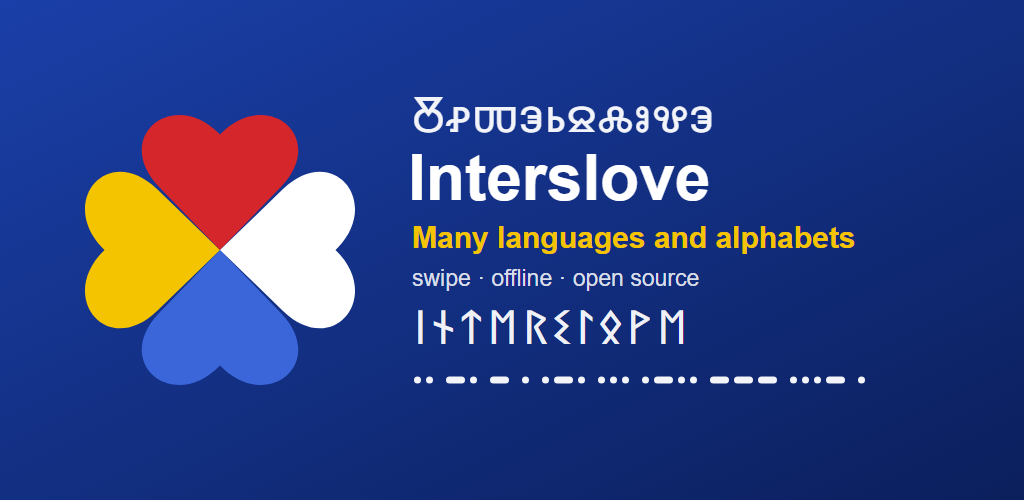
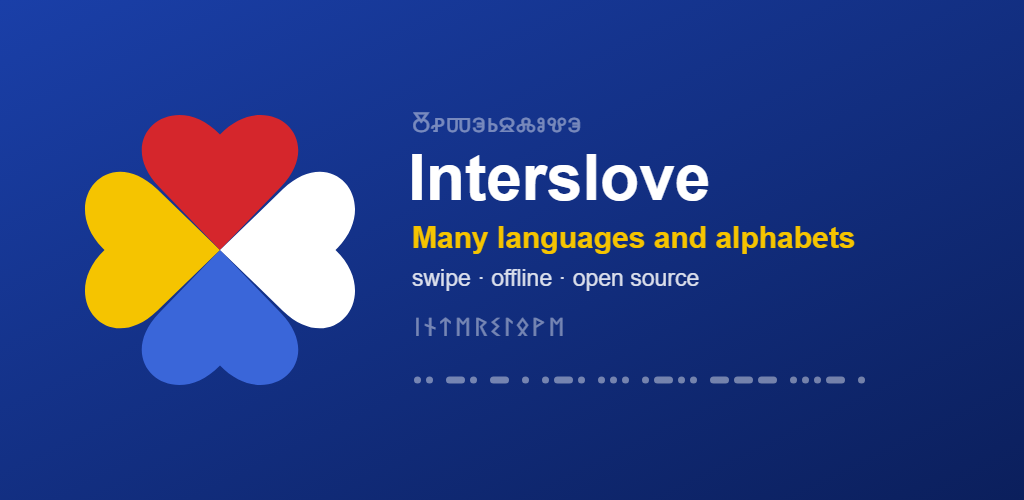
Brand: feature graphic with the decor layer

diff --git a/brand/build_decor.py b/brand/build_decor.py
@@ -1,0 +1,51 @@
+"""Inline brand/src/decor.svg into the store graphic and render it (Windows, Chrome headless).
+
+    python -X utf8 brand/build_decor.py <out.svg> <out.png>
+
+decor.svg is the ONE source of the decor layer (Glagolitic, runes, Morse: shape, size, colour, opacity).
+feature_graphic.svg keeps only the layout; its own decor elements are replaced by the decor groups,
+placed at the positions below. Text is rendered without subpixel (LCD) antialiasing.
+Refuses to overwrite existing outputs.
+"""
+import os, re, subprocess, sys, tempfile
+from PIL import Image
+
+HERE = os.path.dirname(os.path.abspath(__file__))
+CHROME = r'C:/Program Files/Google/Chrome/Application/chrome.exe'
+# where each decor group sits in the store graphic (x, y of the group origin inside the 1024x500 band)
+PLACE = {'decor-glag': (412, 132), 'decor-runy': (414, 336), 'decor-morse': (414, 376.5)}
+
+out_svg, out_png = sys.argv[1], sys.argv[2]
+for p in (out_svg, out_png):
+    if os.path.exists(p):
+        sys.exit(f'{p} exists - pick a new version name')
+
+decor = open(os.path.join(HERE, 'src', 'decor.svg'), encoding='utf-8').read()
+fg = open(os.path.join(HERE, 'src', 'feature_graphic.svg'), encoding='utf-8').read()
+
+style = re.search(r'<g id="decor"([^>]*)>', decor).group(1)
+groups = []
+for gid, (x, y) in PLACE.items():
+    m = re.search(rf'<g id="{gid}" transform="[^"]*">(.*?)</g>', decor, re.S)
+    groups.append(f'    <g id="{gid}" transform="translate({x} {y})">{m.group(1)}</g>')
+block = f'    <!-- decor layer: inlined from brand/src/decor.svg -->\n    <g{style}>\n' + '\n'.join(groups) + '\n    </g>\n'
+
+# drop a decor block inlined by an earlier run, then the graphic's own decor (Segoe UI Historic texts, Morse dots)
+fg = re.sub(r'\s*<!-- decor layer: inlined from brand/src/decor.svg -->\s*<g[^>]*>.*?</g>\s*</g>\n', '\n', fg, flags=re.S)
+# and drop the graphic's own decor: Segoe UI Historic texts and the Morse dots
+fg2 = re.sub(r'\s*<text[^>]*Segoe UI Historic[^>]*>.*?</text>', '', fg)
+fg2 = re.sub(r'\s*<rect x="\d+(\.\d+)?" y="376\.5"[^>]*/>', '', fg2)
+assert 'Segoe UI Historic' not in fg2 and 'y="376.5"' not in fg2, 'old decor still in the graphic'
+fg2 = fg2.replace('  </g>\n</svg>', block + '  </g>\n</svg>')
+assert 'id="decor-morse"' in fg2
+open(out_svg, 'w', encoding='utf-8', newline='\n').write(fg2)
+
+shot = os.path.join(tempfile.mkdtemp(), 'square.png')
+url = 'file:///' + os.path.abspath(out_svg).replace('\\', '/')
+subprocess.run([CHROME, '--headless=new', '--disable-gpu', '--hide-scrollbars', '--disable-lcd-text',
+                '--force-device-scale-factor=1', '--window-size=1024,1024', f'--screenshot={shot}', url],
+               capture_output=True)
+im = Image.open(shot).convert('RGB')
+assert im.size == (1024, 1024), f'chrome gave {im.size}'
+im.crop((0, 262, 1024, 762)).save(out_png)
+print('ok', out_svg, out_png)
